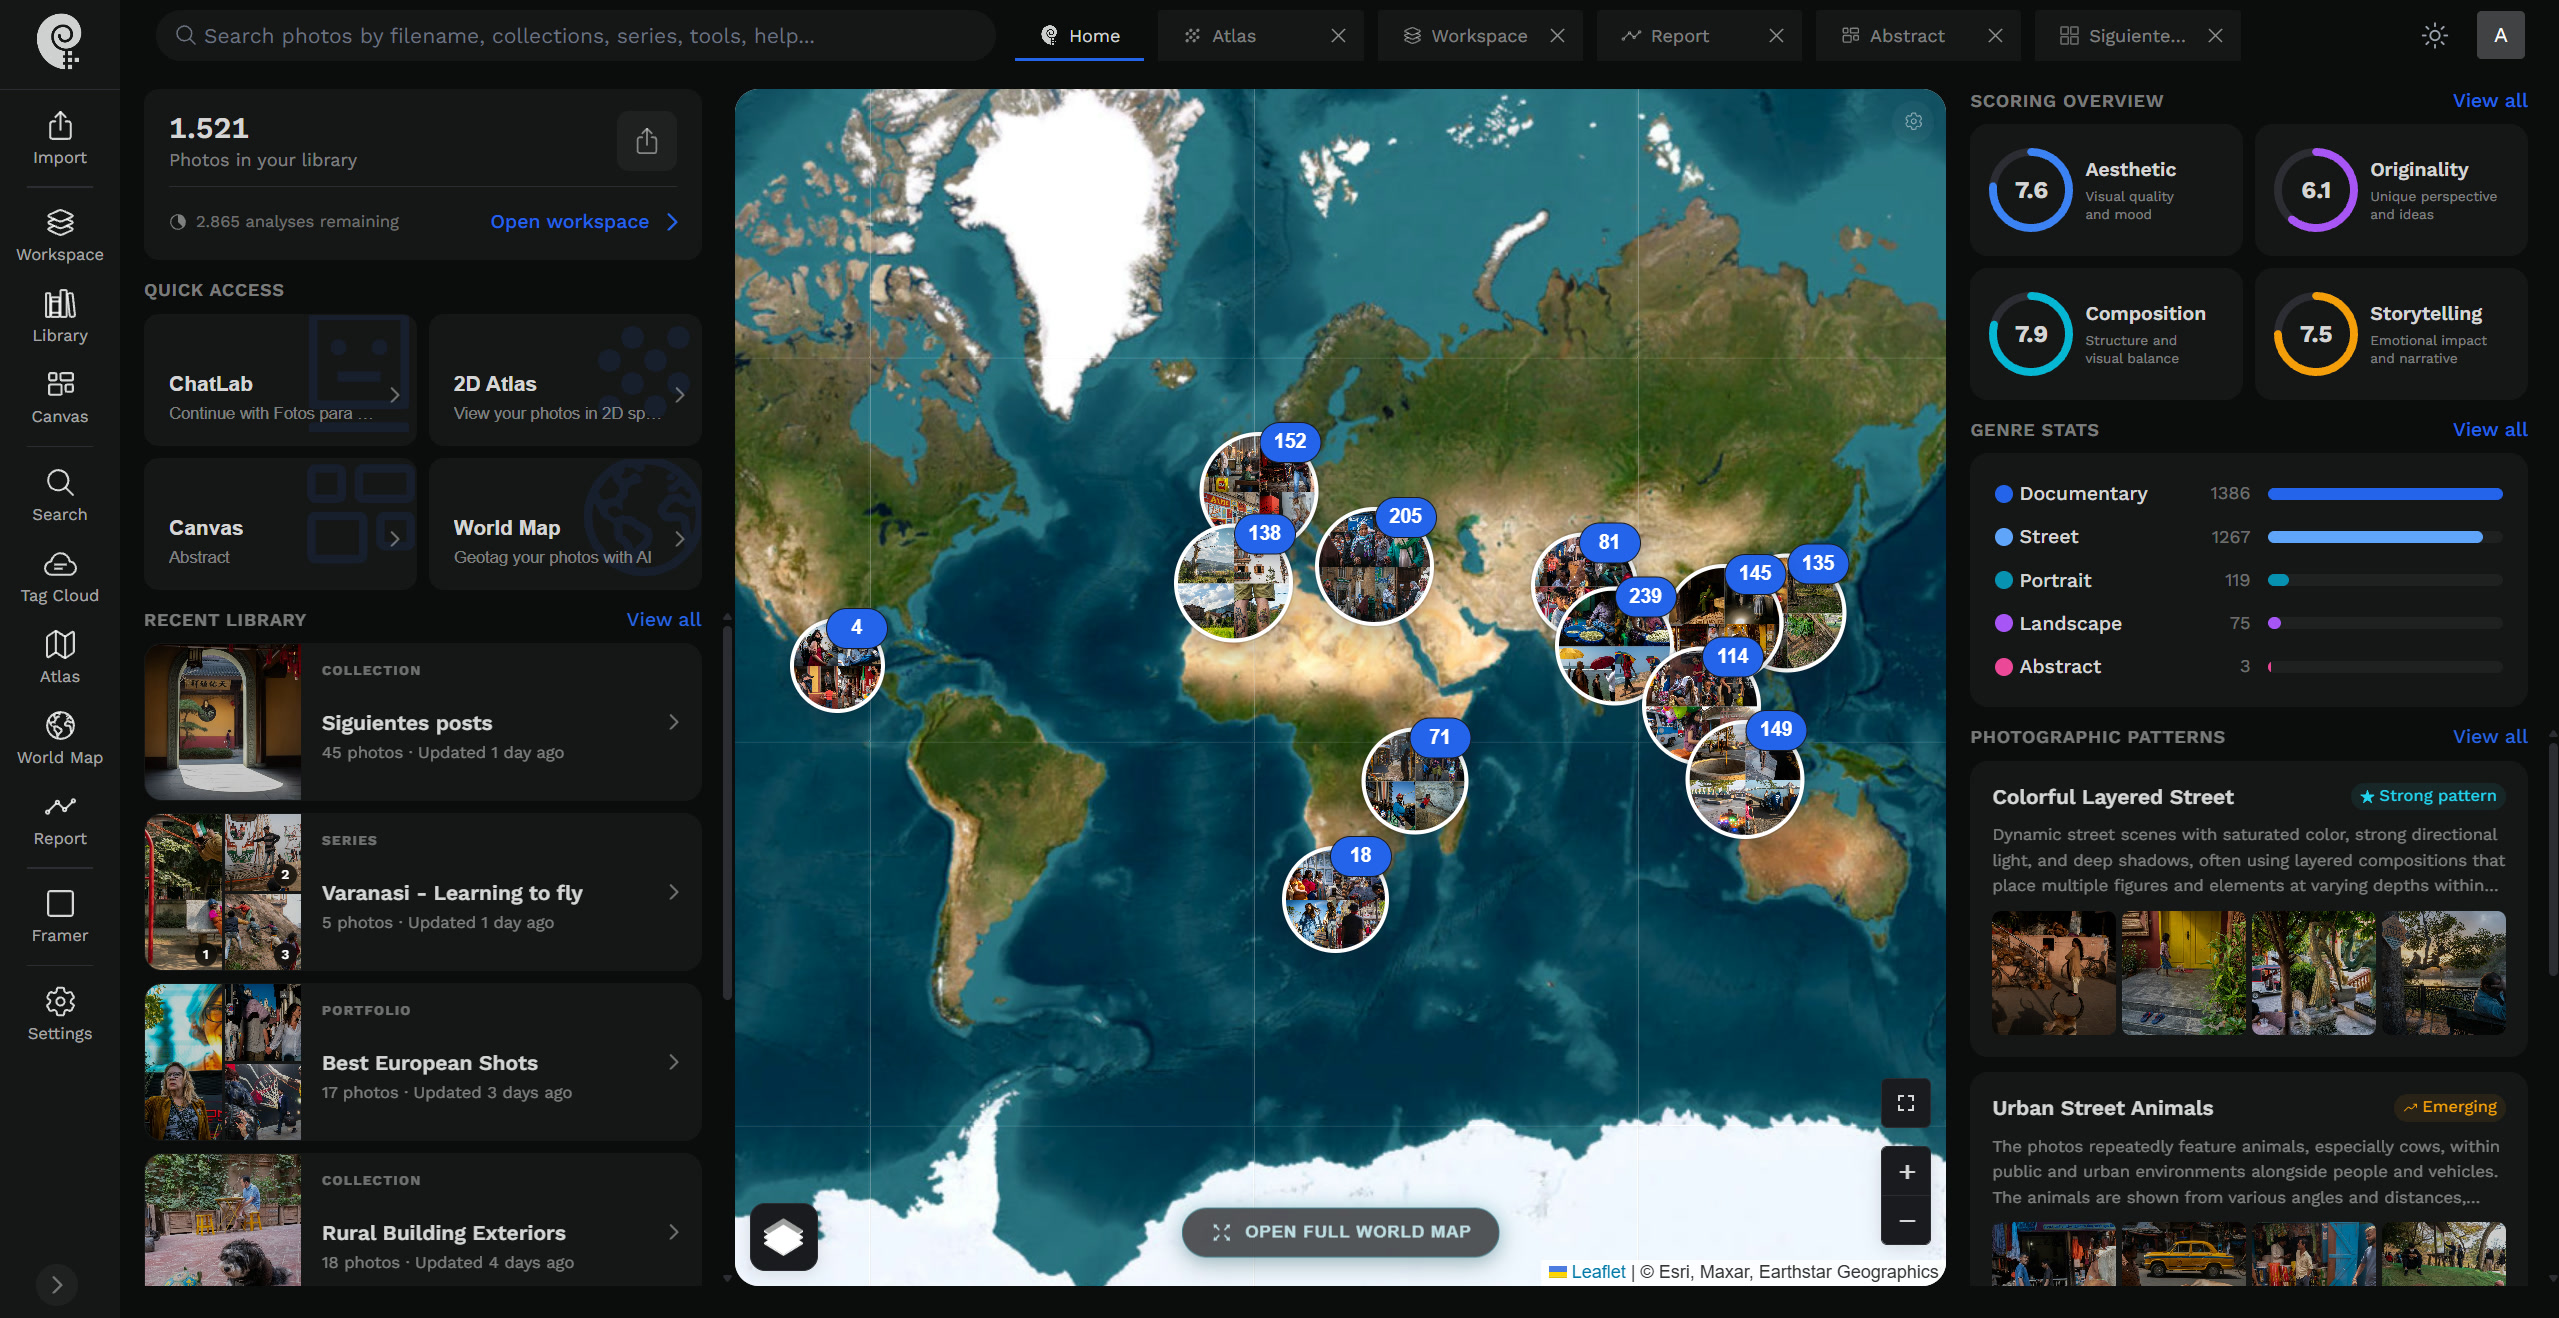
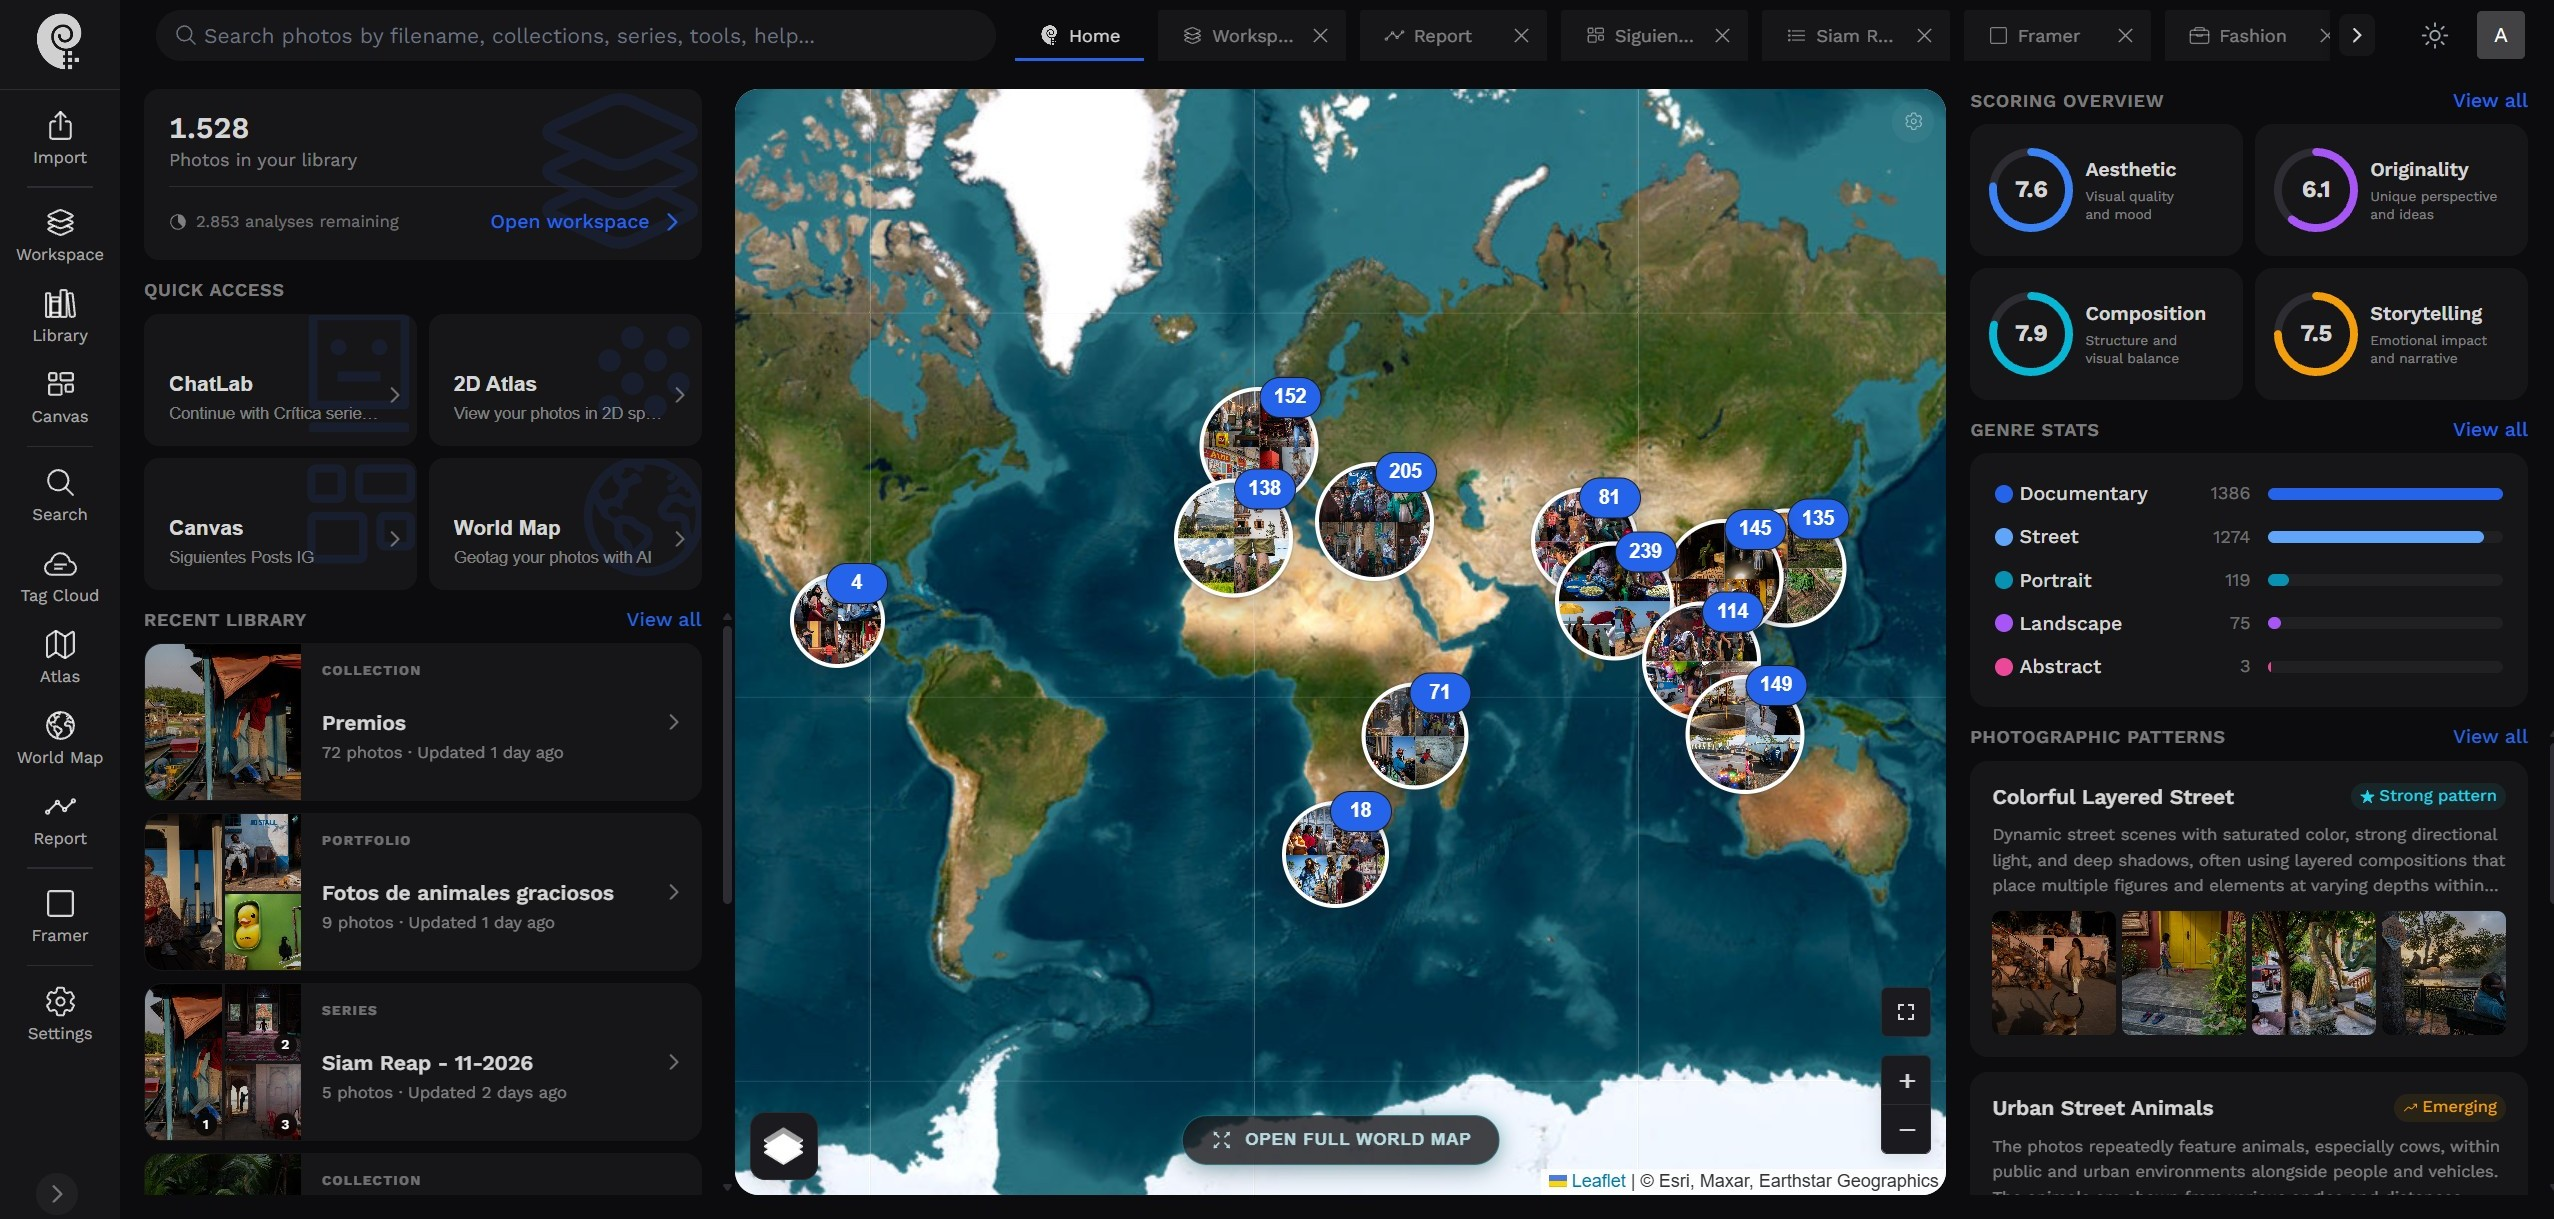
update

diff --git a/app/components/home/HomeFeatures.vue b/app/components/home/HomeFeatures.vue
@@ -69,7 +69,7 @@ const tools = [
     panelHtml:
       "Type what you remember and Photoreka finds it — no tagging, no folders. <strong>Broad</strong> to explore, <strong>Adaptive</strong> for cultural references, <strong>Precise</strong> for exact conditions.",
     video: "/videos/Search.mp4",
-    image: "/home/search_results.jpg",
+    image: "/home/search_results.webp",
     color: "#2563eb",
     link: "/ai_photo_search",
     demoLinks: [
@@ -99,8 +99,8 @@ const tools = [
       "Surface your strongest work automatically",
     ],
     images: [
-      "/ai_photo_scoring/9.png",
-      "/ai_photo_scoring/7.png",
+      "/ai_photo_scoring/9.webp",
+      "/ai_photo_scoring/7.webp",
       "/ai_photo_scoring/10.png",
     ],
     color: "#ec4899",
@@ -121,9 +121,9 @@ const tools = [
       "Track your evolution and discover recurring patterns",
     ],
     images: [
-      "/chatlab/dashboard.png",
-      "/chatlab/dashboard_empty.png",
-      "/canvas/chatlab_2_estrecho.png",
+      "/chatlab/dashboard.webp",
+      "/chatlab/dashboard_empty.webp",
+      "/canvas/chatlab_2_estrecho.webp",
     ],
 
     color: "#8b5cf6",
@@ -147,7 +147,7 @@ const tools = [
       "Reveal cultural references and compositional habits",
       "Analyze your whole archive with AI, not vibes",
     ],
-    images: ["/report/1.png", "/report/2.png"],
+    images: ["/report/1.webp", "/report/2.webp"],
     color: "#f59e0b",
     link: "/photo_reports",
     demoLinks: [
@@ -173,7 +173,7 @@ const tools = [
       "Drop an image to surface visually similar photos",
       "Ask a chat that sees your board what's missing",
     ],
-    images: ["/canvas/levels.png", "/canvas/question.png"],
+    images: ["/canvas/levels.webp", "/canvas/question.webp"],
     color: "#8b5cf6",
     link: "/ai_photo_storyboard",
     demoLinks: [
@@ -201,7 +201,7 @@ const tools = [
     ],
     // Several images → auto-rotating carousel.
     images: [
-      "/portfolio_builder/0.png",
+      "/portfolio_builder/0.webp",
       // "/portfolio_builder/1.png",
       // "/portfolio_builder/2.png",
       // "/portfolio_builder/3.png",
@@ -229,7 +229,7 @@ const tools = [
       "Explore geographic clusters in an interactive map view",
       "Refine results with source, detail, and time-range filters",
     ],
-    image: "/ai_geoinference/3_estrecho.png",
+    image: "/ai_geoinference/3_estrecho.webp",
     color: "#14b8a6",
     link: "/ai_geo_inference",
   },

diff --git a/app/components/home/HomeHero.vue b/app/components/home/HomeHero.vue
@@ -1,17 +1,19 @@
 <template>
-  <component
-    :is="HERO_VARIANTS[HERO_VARIANT]"
-    @demo="goToDemo"
-    @signup="emit('signup')"
-    @commercial-demo="goToCommercialDemo"
-  />
+  <div class="lx-fold">
+    <component
+      :is="HERO_VARIANTS[HERO_VARIANT]"
+      @demo="goToDemo"
+      @signup="emit('signup')"
+      @commercial-demo="goToCommercialDemo"
+    />
 
-  <MarqueeStrip
-    v-if="SHOW_FEATURES_STRIP"
-    :items="features"
-    :repeat="1"
-    :duration="40"
-  />
+    <MarqueeStrip
+      v-if="SHOW_FEATURES_STRIP"
+      :items="features"
+      :repeat="1"
+      :duration="40"
+    />
+  </div>
 </template>
 
 <script setup>
@@ -64,3 +66,30 @@ const goToCommercialDemo = () => {
   window.open("https://app.photoreka.com/demo-commercial/workspace", "_blank");
 };
 </script>
+
+<style scoped>
+/* Desktop: hero and strip fill the first screen (up to 1100px tall), the
+   strip on its bottom edge and the copy centred in the rest. When the copy
+   does not fit, the block grows and the strip falls below the fold. */
+@media (min-width: 1024px) {
+  .lx-fold {
+    display: flex;
+    flex-direction: column;
+    min-height: min(100svh, 1100px);
+  }
+
+  .lx-fold > :deep(.lx-hero) {
+    --hero-top: clamp(104px, 12svh, 136px);
+    --hero-bottom: clamp(32px, 4svh, 56px);
+    flex: 1 0 auto;
+    display: flex;
+    flex-direction: column;
+    justify-content: center;
+  }
+
+  /* With auto side margins a flex item would shrink to its content. */
+  .lx-fold > :deep(.lx-hero > *) {
+    width: 100%;
+  }
+}
+</style>

diff --git a/app/components/hero/HeroShowcaseRight.vue b/app/components/hero/HeroShowcaseRight.vue
@@ -53,9 +53,17 @@ const emit = defineEmits(["demo", "signup", "commercial-demo"]);
   --hero-title-size: clamp(3rem, min(4.9vw, 9svh), 4.9rem);
 }
 
+/* Below ~1400px the copy column shrinks with the row instead of holding
+   570px, and the headline with it, so the capture stays the larger block. */
+@media (min-width: 1024px) {
+  .lx-hero--showcase-right {
+    --hero-title-size: clamp(2.6rem, min(4.9vw, 9svh, 6.6vw - 25px), 4.9rem);
+  }
+}
+
 .lx-hero__layout {
   display: grid;
-  grid-template-columns: minmax(0, 570px) minmax(0, 1fr);
+  grid-template-columns: minmax(0, min(570px, 45%)) minmax(0, 1fr);
   gap: clamp(32px, 4vw, 64px);
   align-items: center;
   max-width: calc(1560px + 2 * var(--lx-gutter));
@@ -81,6 +89,25 @@ const emit = defineEmits(["demo", "signup", "commercial-demo"]);
 .lx-hero__genres {
   --lx-hero-genres-justify: center;
   width: min(100%, 600px);
+}
+
+/* Narrowed copy column: the lead flows as one paragraph (three separate
+   sentences would each break into ragged short lines) and the eyebrow
+   tightens to stay on one line. */
+@media (min-width: 1024px) and (max-width: 1365px) {
+  .lx-hero__center :deep(.lx-hero__lead) {
+    text-wrap: balance;
+  }
+
+  .lx-hero__center :deep(.lx-hero__lead > span) {
+    display: inline;
+  }
+
+  .lx-hero__eyebrow {
+    gap: 0.5rem;
+    letter-spacing: 0.1em;
+    white-space: nowrap;
+  }
 }
 
 /* Single column: the capture goes under the copy. */

diff --git a/app/components/hero/HeroRotatingShot.vue b/app/components/hero/HeroRotatingShot.vue
@@ -35,15 +35,15 @@ const props = defineProps({
     type: Array,
     default: () => [
       {
-        src: "/canvas/chatlab_2.png",
+        src: "/canvas/chatlab_2.webp",
         alt: "Photoreka infinite canvas with an AI chat docked to the board",
       },
       {
-        src: "/home/hero_dashboard.jpg",
+        src: "/home/hero_dashboard.webp",
         alt: "Photoreka dashboard: world map, scores, genres and photographic patterns of a library",
       },
       {
-        src: "/home/hero_portfolio.jpg",
+        src: "/home/hero_portfolio.webp",
         alt: "AI photo portfolio built with Photoreka",
       },
     ],

diff --git a/app/components/AppLogo.vue b/app/components/AppLogo.vue
@@ -50,12 +50,12 @@ const logoMap = {
   },
   horizontal: {
     dark: {
-      withClaim: "/logos/marca/horizontal-claim-dark.png",
-      noClaim: "/logos/marca/horizontal-dark.png",
+      withClaim: "/logos/marca/horizontal-claim-dark.webp",
+      noClaim: "/logos/marca/horizontal-dark.webp",
     },
     light: {
-      withClaim: "/logos/marca/horizontal-claim-light.png",
-      noClaim: "/logos/marca/horizontal-light.png",
+      withClaim: "/logos/marca/horizontal-claim-light.webp",
+      noClaim: "/logos/marca/horizontal-light.webp",
     },
   },
   vertical: {
